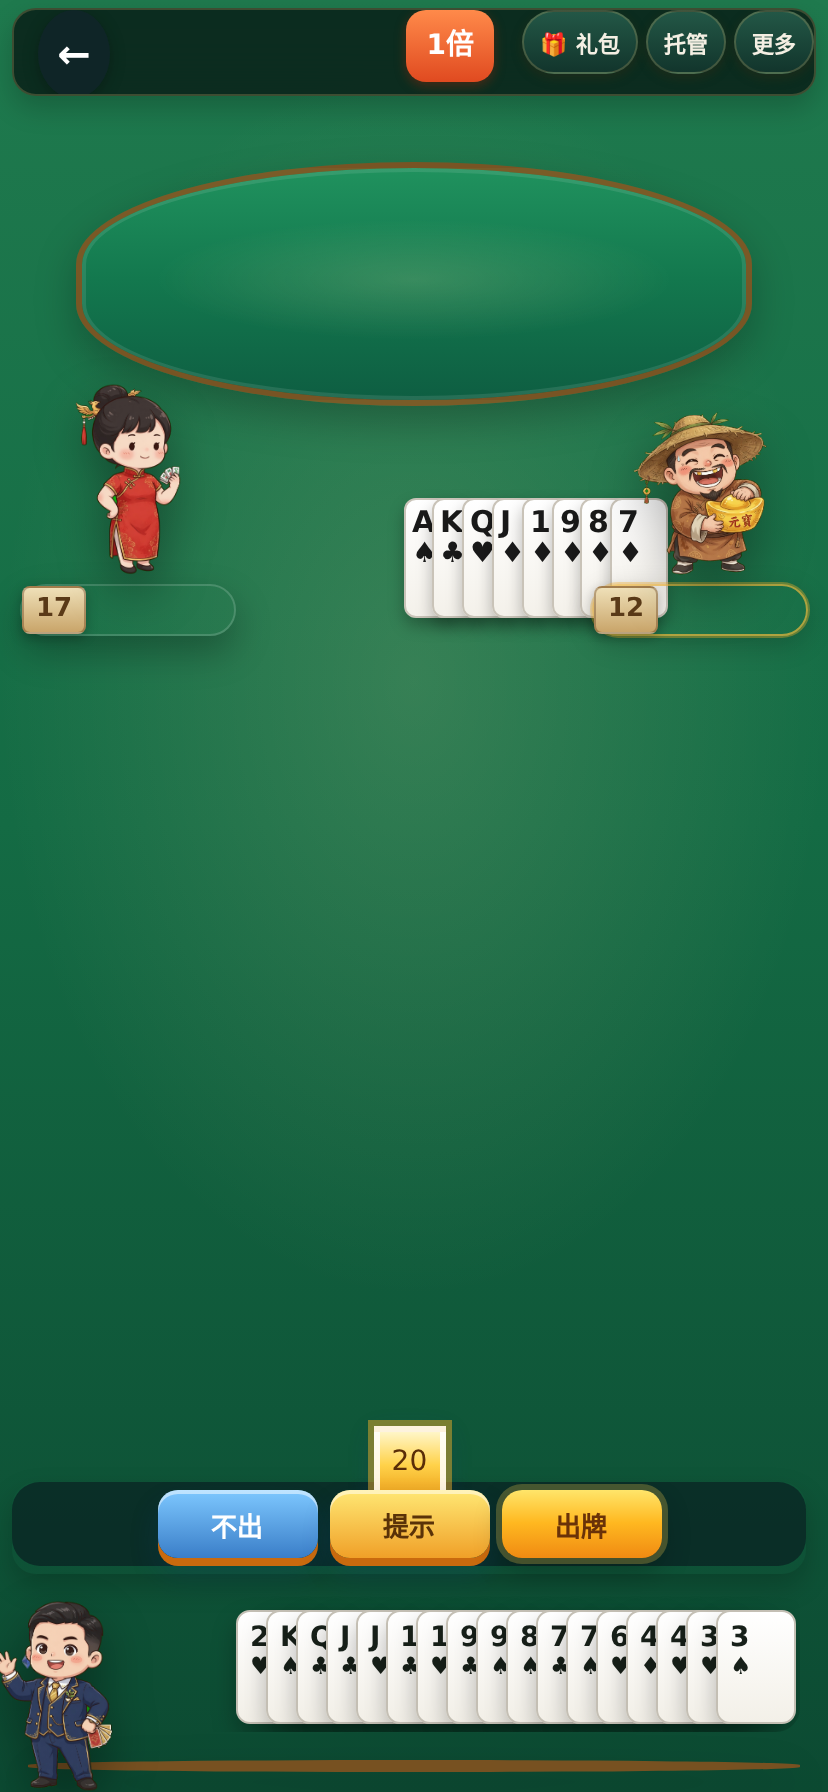
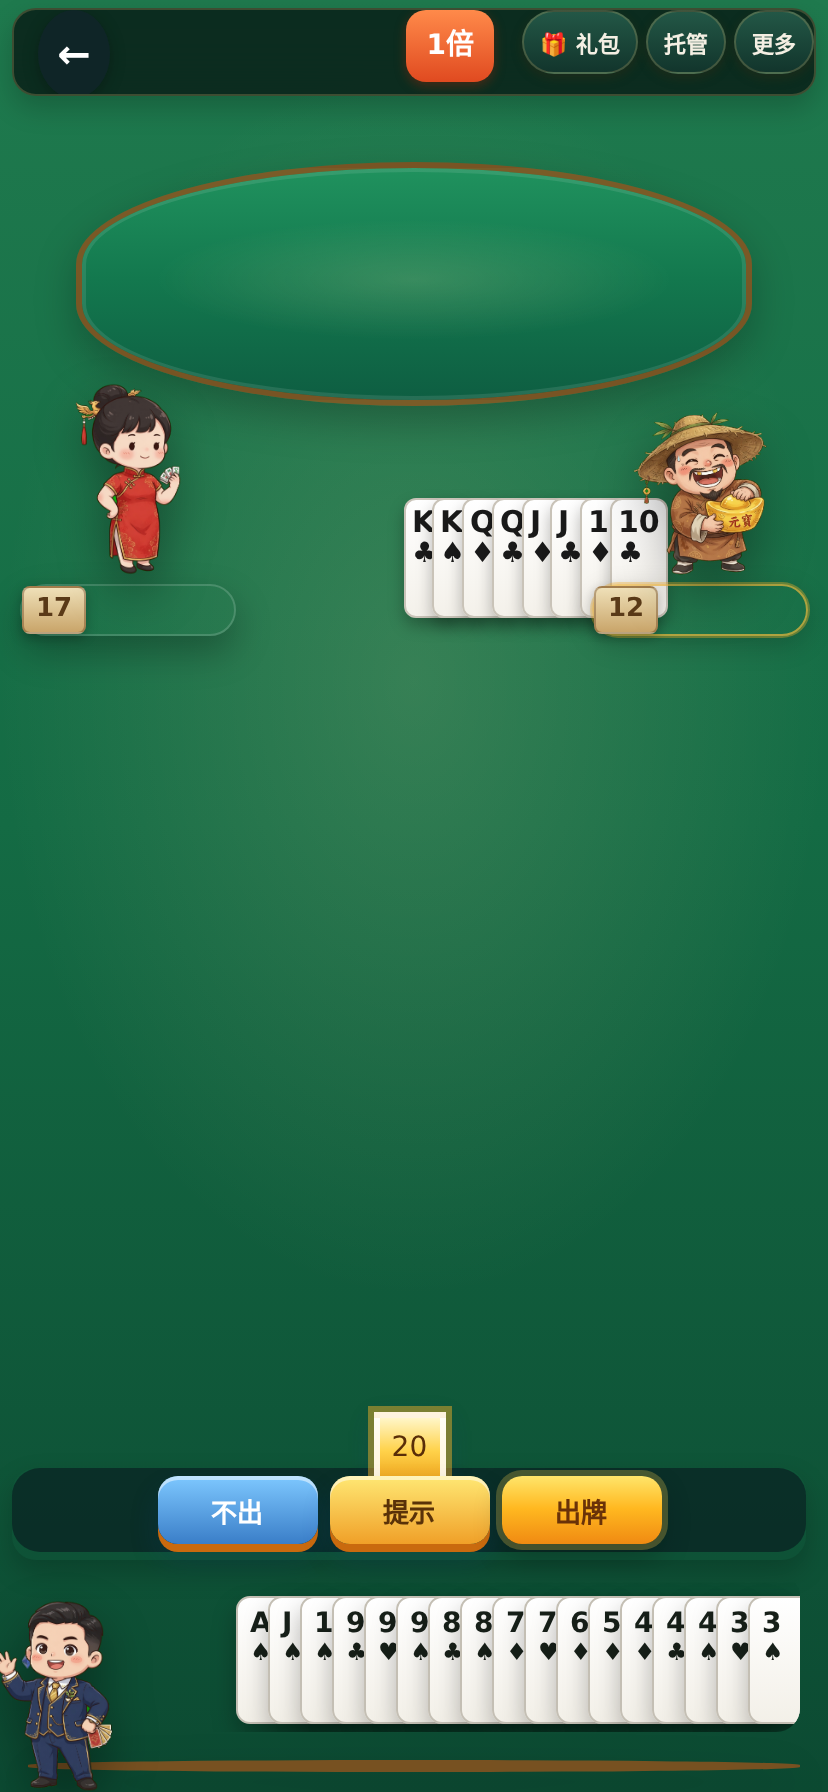
fix(play9h1): hand-layout minW≥40/minPeek≥16 + after-play QA
CSS alone lost to inline !important widths from hand-layout.js.
Dou Dizhu pack floors raised; overflow clamp honors minPeek.
414: cardW 48 / peek 16; play reduces 17→15; mj regression kept.
No chain.

Changed region(s): [[0.0, 0.7812, 0.9662, 0.9688], [0.6039, 0.2812, 0.785, 0.3438], [0.4831, 0.2812, 0.5435, 0.3125]]

diff --git a/apps/web-lobby/src/net/hand-layout.js b/apps/web-lobby/src/net/hand-layout.js
@@ -102,7 +102,8 @@ export function layoutOverlapRow(area, items, opts = {}) {
   const limit = window.innerWidth - 4;
   if (lastRight > limit && n > 1) {
     const overflow = lastRight - limit;
-    const peek = Math.max(8, pack.peek - Math.ceil(overflow / (n - 1)));
+    const floorPeek = Math.max(opts.minPeek ?? 12, 8);
+    const peek = Math.max(floorPeek, pack.peek - Math.ceil(overflow / (n - 1)));
     const overlap = Math.max(0, pack.cardW - peek);
     items.forEach((el, i) => {
       if (i === 0) return;
@@ -310,10 +311,11 @@ export function fitAllHands(root = document) {
   const handArea = root.querySelector("#handArea");
   if (handArea) {
     const wide = (handArea.clientWidth || 360) > 520;
+    // play9h1: Dou Dizhu must stay tappable — never shrink below 40/16
     layoutOverlapRow(handArea, [...handArea.querySelectorAll(".playing-card")], {
-      maxW: wide ? 52 : 40,
-      minW: 24,
-      minPeek: wide ? 18 : 12,
+      maxW: wide ? 56 : 48,
+      minW: 40,
+      minPeek: 16,
       ratio: 1.42,
       gap: false,
     });

diff --git a/apps/web-lobby/src/app.js b/apps/web-lobby/src/app.js
@@ -39,7 +39,7 @@ import { createBlackjackUI } from './games/blackjack/ui.js';
 // 掼蛋改为按需加载，避免 /vendor 失败时整站白屏
 import * as pinusClient from './pinus/client.js';
 import * as colyseusClient from './net/colyseus-client.js';
-import { initHandFit, fitAllHands } from './net/hand-layout.js?v=play9g1';
+import { initHandFit, fitAllHands } from './net/hand-layout.js?v=play9h1';
 import { initTableOrientation } from './net/table-orient.js';
 import { stripGuandanChrome, stripGuandanChromeFromDocument } from './net/strip-gd-chrome.js';
 import {

diff --git a/docs/qa/play9h1.md b/docs/qa/play9h1.md
@@ -1,17 +1,22 @@
 # play9h1 — 斗地主手牌解锁 + 麻将可见
 
-Cache: `play9h1` · base `main@08f95c0` (play9g1d)
+Cache: `play9h1` · base `main@08f95c0` (play9g1d) · PR #14
 
 ## 根因
-1. **斗地主**：`table-play.css` 多处把 `#handArea .playing-card` 锁死为 **28×42**，414 几乎不可点。
-2. **麻将**：play9g1d 的 `translateY(-96px)` 把 hero 手牌抬得过高，易与毡面/座位叠层导致「看不见」。
+1. **斗地主 CSS**：`table-play.css` 多处把 `#handArea .playing-card` 锁死为 **28×42**。
+2. **斗地主 JS（关键）**：`hand-layout.js` `fitAllHands` 对 `#handArea` 用 `minW:24 / minPeek:12`，并写 **inline `width !important`**，会压过任何 CSS 40px。
+3. **麻将**：play9g1d `translateY(-96px)` 抬过高，易「看不见」。
 
 ## 修复
-- 斗地主：最高优先级覆盖为 **40×56**（可点选），`pointer-events: auto`，选中上抬。
-- 麻将：hero raise 收到 **-28px**；强制 `#mgHand` / `.mg-hand-tile` `opacity:1; visibility:visible`；牌面 ≥30×46。
+- `hand-layout.js`：斗地主 pack **`minW≥40`、`minPeek≥16`**；overflow clamp 尊重 `opts.minPeek`。
+- `table-play.css`：28×42 解锁为 40×56；麻将 raise **-28px** + opacity/visibility。
+- `app.js` / `index.html`：cache `?v=play9h1`。
 
-## 414 自测
-- 斗地主人机畅玩：手牌约 40×57，可点选。
-- 麻将四人：`opacity:1`，`transform: translateY(-28px)`，tiles on-screen。
+## 414 自测（人机畅玩）
+| 项 | 结果 |
+|---|---|
+| idle 手牌 | n=17, **minW=48**, **minPeek=16**, inlineW=`48px` → size PASS |
+| 出牌后 | hand **17→15**，见 `ddz-414-after-play.png` |
+| 麻将 | tiles visible, opacity=1, w≈32 |
 
-不接链；不动匹配/补给。
+不接链；不动匹配/补给。三样齐再合。
